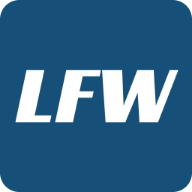
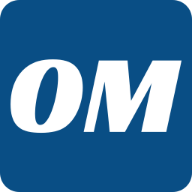
OS-setup: other config files, styles, and public

Changed region(s): [[0.0312, 0.2812, 0.9688, 0.7188]]

diff --git a/sites/offshore/config/navigation.js b/sites/offshore/config/navigation.js
@@ -1,12 +1,16 @@
 module.exports = {
   primary: {
     items: [
-      { href: '/detectors-imaging', label: 'Detectors & Imaging' },
-      { href: '/lasers-sources', label: 'Lasers & Sources' },
-      { href: '/optics', label: 'Optics' },
-      { href: '/fiber-optics', label: 'Fiber Optics' },
-      { href: '/software-accessories', label: 'Software & Accessories' },
-      { href: '/test-measurement', label: 'Test & Measurement' },
+      { href: '/regional-reports', label: 'Regional Reports' },
+      { href: '/drilling-completion', label: 'Drilling & Completion' },
+      { href: '/field-development', label: 'Field Development' },
+      { href: '/subsea', label: 'Subsea' },
+      { href: '/geosciences', label: 'Geosciences' },
+      { href: '/pipelines', label: 'Pipelines' },
+      { href: '/production', label: 'Production' },
+      { href: '/rigs-vessels', label: 'Rigs/Vessels' },
+      { href: '/deepwater', label: 'Deepwater' },
+      { href: '/business-briefs', label: 'Business Briefs' },
     ],
   },
   secondary: {
@@ -14,11 +18,9 @@ module.exports = {
       { href: '/subscribe', label: 'Subscribe' },
       { href: '/magazine', label: 'Magazine' },
       { href: '/videos', label: 'Videos' },
-      { href: '/white-papers', label: 'White Papers' },
       { href: '/webcasts', label: 'Webcasts' },
-      { href: 'https://buyersguide.laserfocusworld.com/index.html', label: 'Buyer\'s Guide', target: '_blank' },
-      { href: 'https://laserfocusworldinnovators.secure-platform.com/a', label: 'Awards', target: '_blank' },
-      { href: 'https://www.marketplaceseminar.com/index.html', label: 'L&P Market Seminar', target: '_blank' },
+      { href: '/events', label: 'Events' },
+      { href: '/page/about-us', label: 'About Us' },
     ],
   },
   tertiary: {
@@ -39,28 +41,27 @@ module.exports = {
     {
       label: 'Topics',
       items: [
-        { href: '/detectors-imaging', label: 'Detectors & Imaging' },
-        { href: '/lasers-sources', label: 'Lasers & Sources' },
-        { href: '/optics', label: 'Optics' },
-        { href: '/fiber-optics', label: 'Fiber Optics' },
-        { href: '/software-accessories', label: 'Software & Accessories' },
-        { href: '/test-measurement', label: 'Test & Measurement' },
-        { href: '/photonics-business', label: 'Photonics Business' },
+        { href: '/regional-reports', label: 'Regional Reports' },
+        { href: '/drilling-completion', label: 'Drilling & Completion' },
+        { href: '/field-development', label: 'Field Development' },
+        { href: '/subsea', label: 'Subsea' },
+        { href: '/geosciences', label: 'Geosciences' },
+        { href: '/pipelines', label: 'Pipelines' },
+        { href: '/production', label: 'Production' },
+        { href: '/rigs-vessels', label: 'Rigs/Vessels' },
+        { href: '/deepwater', label: 'Deepwater' },
+        { href: '/business-briefs', label: 'Business Briefs' },
       ],
     },
     {
       label: 'Resources',
       items: [
-        { href: '/blogs', label: 'Commentary' },
+        { href: '/resources/maps-posters', label: 'Maps & Posters' },
         { href: '/magazine', label: 'Magazine' },
         { href: '/videos', label: 'Videos' },
         { href: '/white-papers', label: 'White Papers' },
         { href: '/webcasts', label: 'Webcasts' },
         { href: '/events', label: 'Events' },
-        { href: 'https://buyersguide.laserfocusworld.com/index.html', label: 'Buyer\'s Guide', target: '_blank' },
-        { href: 'https://laserfocusworldinnovators.secure-platform.com/a', label: 'Awards', target: '_blank' },
-        { href: 'https://www.marketplaceseminar.com/index.html', label: 'L&P Market Seminar', target: '_blank' },
-        { href: 'https://www.strategies-u.com/reports', label: 'Photonics Market Reports', target: '_blank' },
       ],
     },
     {

diff --git a/sites/offshore/config/site.js b/sites/offshore/config/site.js
@@ -5,30 +5,30 @@ module.exports = {
   company: 'Endeavor Business Media, LLC',
   logos: {
     navbar: {
-      src: 'https://base.imgix.net/files/base/pennwell/lfw/logo.png?h=45',
+      src: 'https://base.imgix.net/files/base/pennwell/os/logo.png?h=45',
       srcset: [
-        'https://base.imgix.net/files/base/pennwell/lfw/logo.png?h=90 2x',
+        'https://base.imgix.net/files/base/pennwell/os/logo.png?h=90 2x',
       ],
     },
     footer: {
-      src: 'https://base.imgix.net/files/base/pennwell/lfw/logo.png?h=60',
+      src: 'https://base.imgix.net/files/base/pennwell/os/logo.png?h=60',
       srcset: [
-        'https://base.imgix.net/files/base/pennwell/lfw/logo.png?h=120 2x',
+        'https://base.imgix.net/files/base/pennwell/os/logo.png?h=120 2x',
       ],
     },
   },
   socialMediaLinks: [
-    { provider: 'linkedin', href: 'http://www.linkedin.com/groups/Laser-Focus-World-2896249' },
-    { provider: 'twitter', href: 'https://twitter.com/LaserFocusWorld' },
-    { provider: 'facebook', href: 'https://www.facebook.com/pages/Laser-Focus-World/126899915297' },
+    { provider: 'linkedin', href: 'https://www.linkedin.com/company/offshore-magazine' },
+    { provider: 'twitter', href: 'https://twitter.com/offshoremgzn' },
+    { provider: 'facebook', href: 'https://www.facebook.com/offshoremagazine' },
   ],
   gtm: {
-    containerId: 'GTM-M7H8VJG',
+    containerId: 'GTM-PQK8MQK',
   },
   wufoo: {
     userName: 'cygnuscorporate',
   },
   magazines: {
-    description: '',
+    description: 'Offshore magazine covers the global trends and technologies for offshore oil and gas operations. Offshore covers the latest news, market trends, and products relative to oil and gas E&P operations. Each monthly issue contains current topics, special reports, in-depth interviews with industry executives, maps of the hottest offshore E&P areas and posters of important offshore technologies.',
   },
 };

diff --git a/sites/offshore/server/styles/index.scss b/sites/offshore/server/styles/index.scss
@@ -1,21 +1,24 @@
-$primary: #164f77;
-$secondary: #495057;
-$light: #e9ecef;
-$dark: #212529;
-$info: #6c757d;
+$primary: #094e85 !default;
+$secondary: #495057; // equivalent to default gray-700
+$light: #e9ecef !default; // equivalent to default gray-200
+$dark: #212529 !default; // equivalent to default gray-900
+$info: #6c757d !default; // equivalent to default gray-600
 
-$theme-site-navbar-secondary-bg-color: #002e4f;
+
+$theme-site-navbar-secondary-bg-color: #fff;
 $theme-site-navbar-primary-bg-color: $primary;
+$theme-site-navbar-menu-hover-background-color: lighten($theme-site-navbar-primary-bg-color, 70%);
+$theme-site-navbar-secondary-type: light;
 
-$theme-site-navbar-logo-height: 45px;
-$theme-site-navbar-logo-height-sm: 25px;
+$theme-site-navbar-logo-height: 50px;
+$theme-site-navbar-logo-height-sm: 30px;
 
 $theme-site-header-breakpoints: (
-  hide-primary: 832px,
-  hide-secondary: 906px,
-  small-logo: 1015px,
-  small-text-primary: 932px,
-  small-text-secondary: 1105px
+  hide-primary: 1152px,
+  hide-secondary: 654px,
+  small-logo: 760px,
+  small-text-primary: 1230px,
+  small-text-secondary: 809px
 );
 
 @import "../../node_modules/@base-cms/marko-web-gam/scss/fixed-ad-bottom";
@@ -23,3 +26,9 @@ $theme-site-header-breakpoints: (
 @import "../../node_modules/@base-cms/marko-web-theme-default/skins/orion/skin";
 // @todo this should be remove once contact us is in core
 @import "../../node_modules/@base-cms-websites/package-common/scss/contact-us-form";
+
+.website-section-page {
+  &--31922 {
+    margin-bottom: map-get($spacers, block);
+  }
+}
